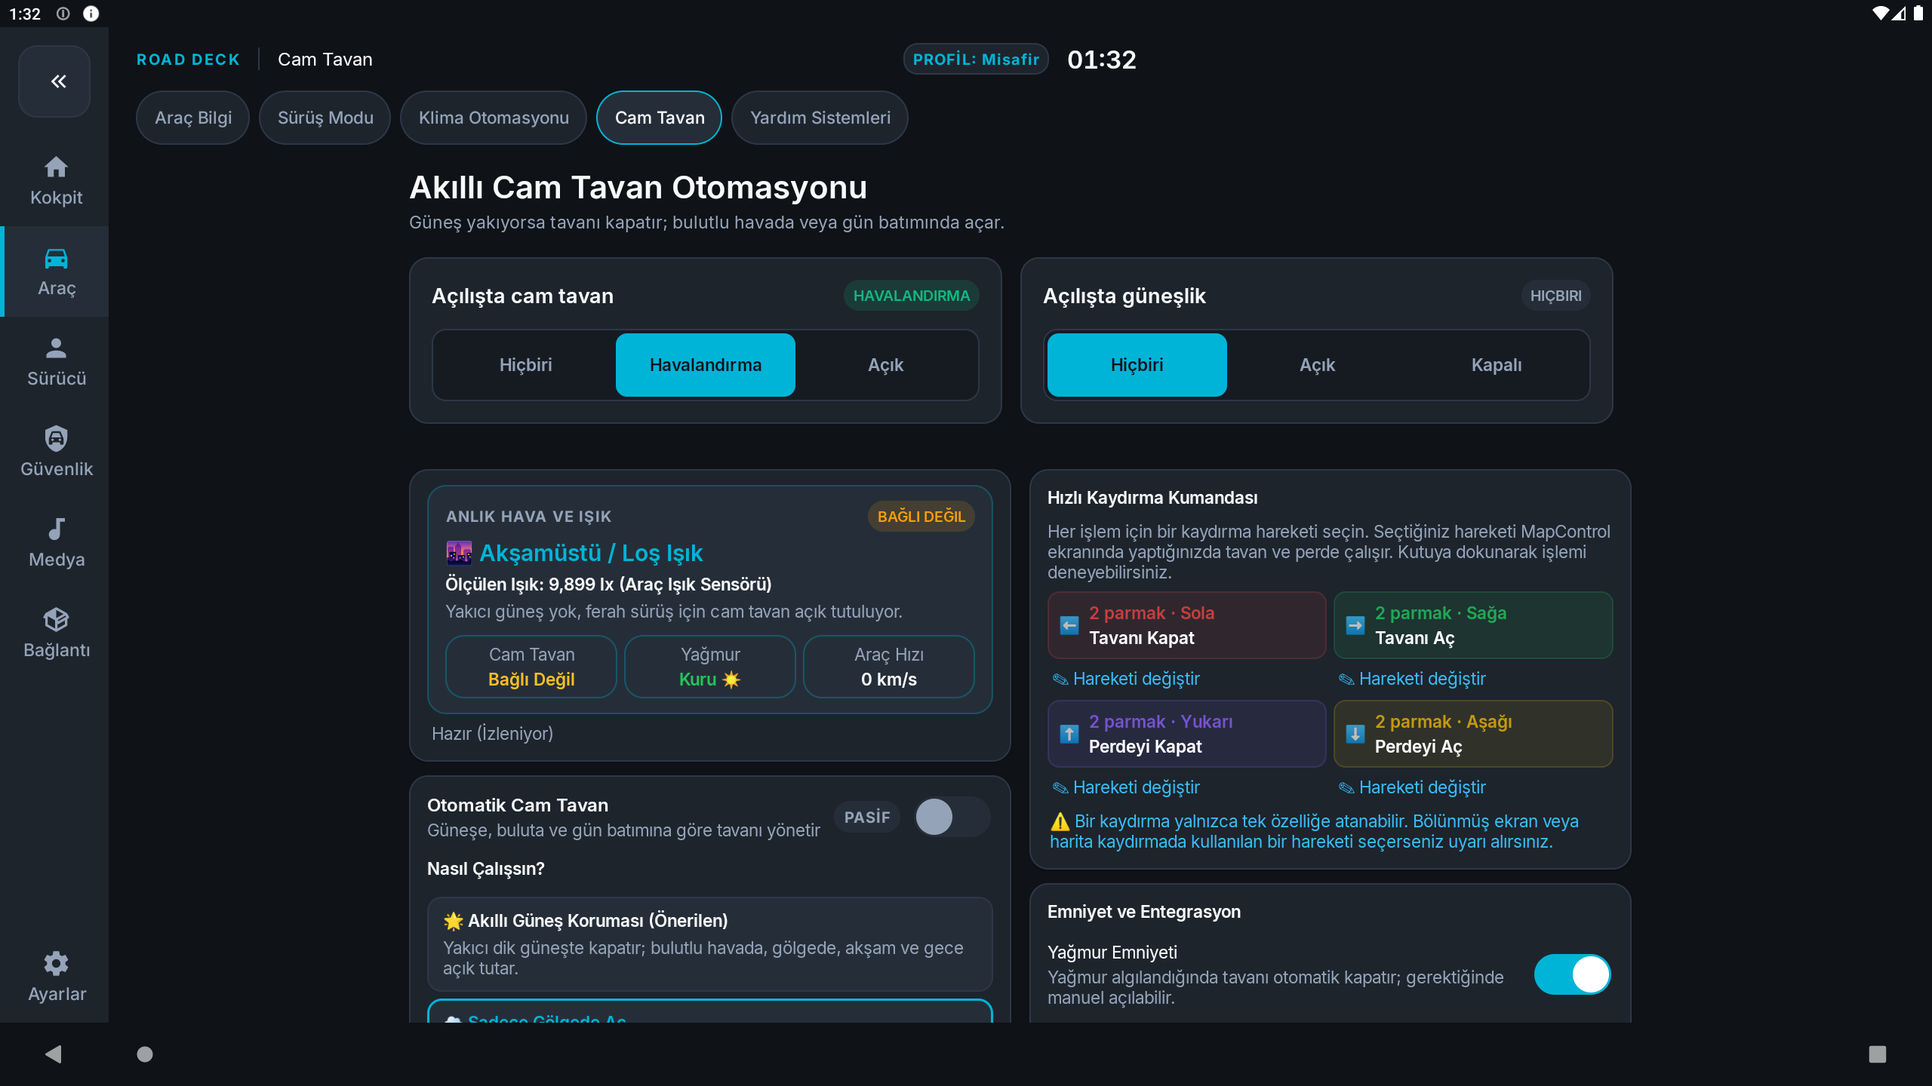
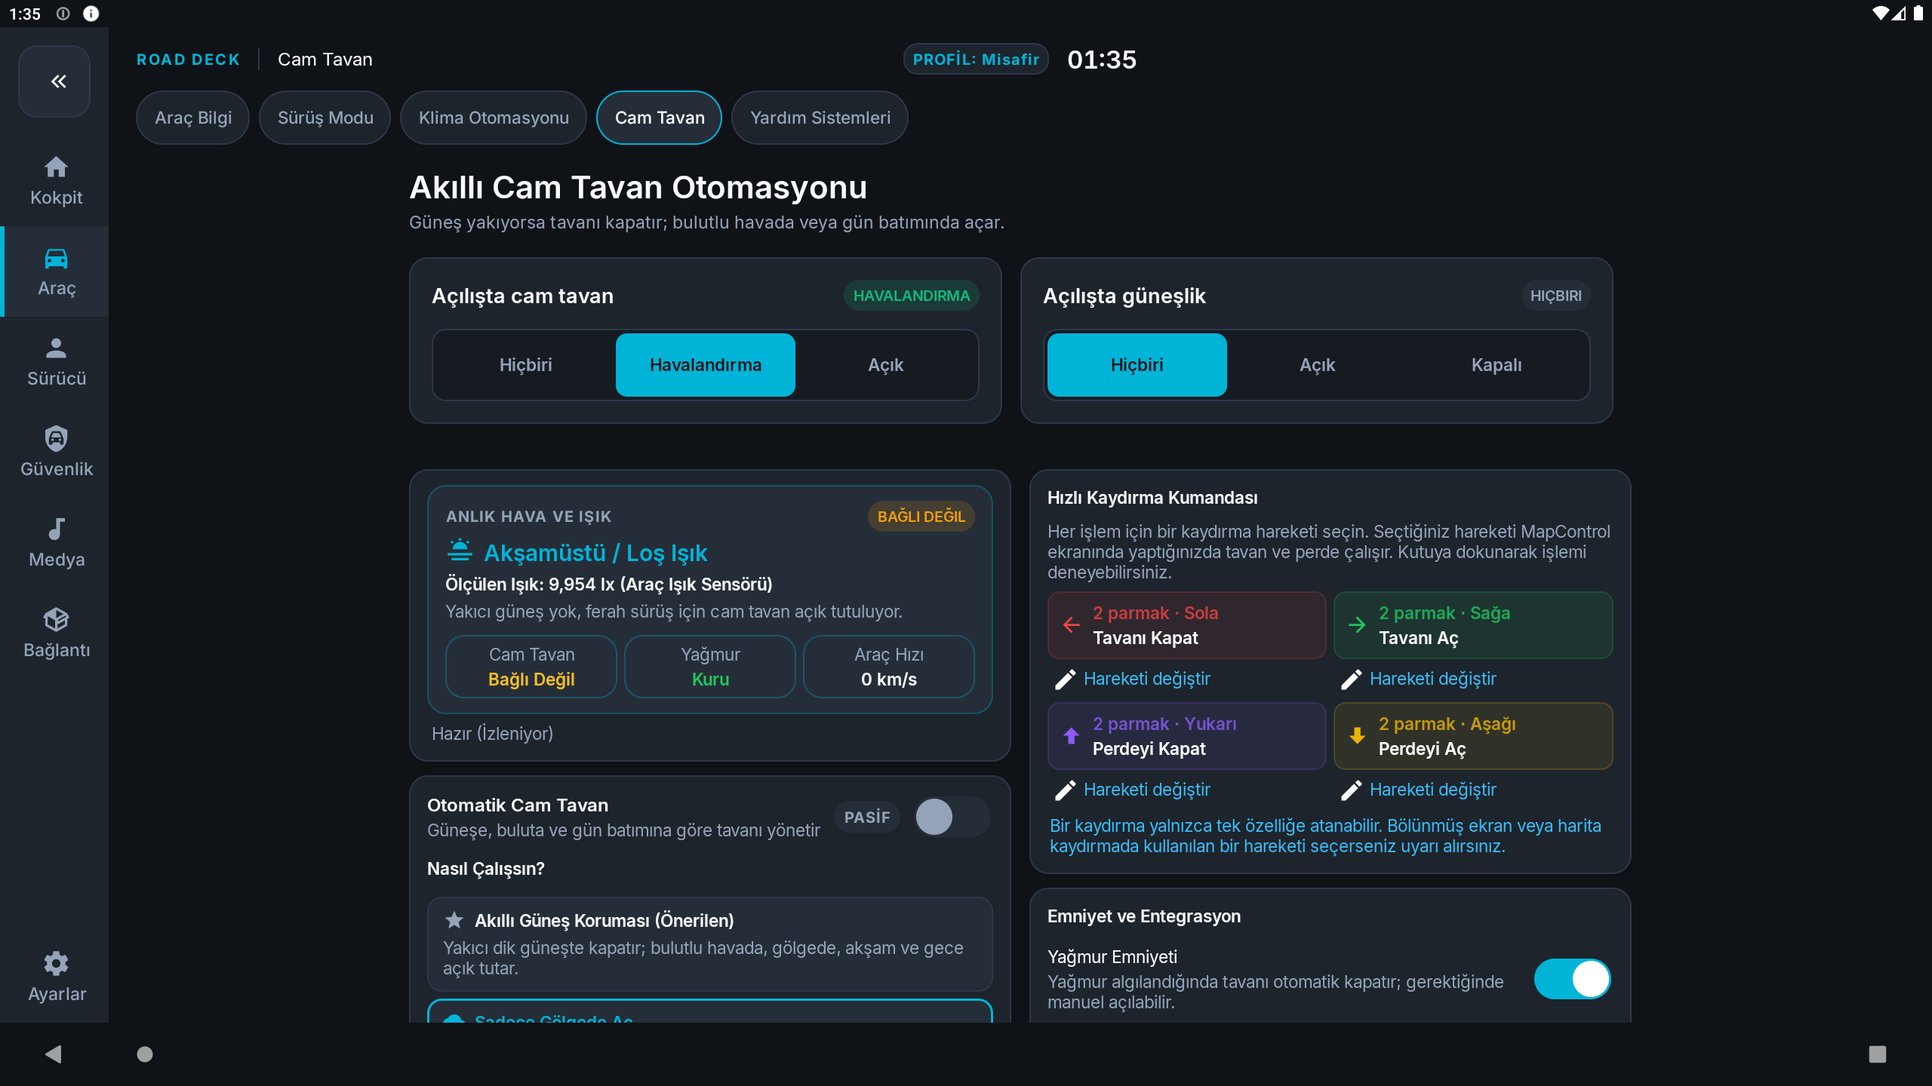
style: cam tavan emojilerini vector ikonlarla degistir
- Hava durumu, mod, hassasiyet ve kaydirma yonleri icin vector ikonlar
- Durum metinlerindeki emojiler kaldirildi
- Emoji yerine yerel drawable ikonlari kullaniliyor

diff --git a/app/src/main/java/com/mapcontrol/ui/builder/SunroofAutomationTabBuilder.java b/app/src/main/java/com/mapcontrol/ui/builder/SunroofAutomationTabBuilder.java
@@ -70,6 +70,7 @@ public final class SunroofAutomationTabBuilder implements SunroofAutomationEngin
 
     // Canlı Gösterge View'ları
     private TextView tvConditionTitle;
+    private ImageView conditionIcon;
     private TextView tvLiveLux;
     private TextView tvConditionAdvice;
     private TextView tvSunroofState;
@@ -281,12 +282,23 @@ public final class SunroofAutomationTabBuilder implements SunroofAutomationEngin
         conditionHeader.addView(liveBadge);
         conditionBox.addView(conditionHeader);
 
+        LinearLayout conditionTitleRow = new LinearLayout(context);
+        conditionTitleRow.setOrientation(LinearLayout.HORIZONTAL);
+        conditionTitleRow.setGravity(Gravity.CENTER_VERTICAL);
+        conditionTitleRow.setPadding(0, dp(3, density), 0, dp(1, density));
+        conditionIcon = new ImageView(context);
+        conditionIcon.setImageResource(R.drawable.ic_ck_sun);
+        conditionIcon.setColorFilter(CockpitTokens.color(context, R.color.ck_accent));
+        conditionTitleRow.addView(conditionIcon, new LinearLayout.LayoutParams(
+                dp(26, density), dp(26, density)));
         tvConditionTitle = new TextView(context);
         tvConditionTitle.setTextSize(20);
         tvConditionTitle.setTypeface(null, Typeface.BOLD);
-        tvConditionTitle.setTextColor(UiStyles.color(context, R.color.oemAccent));
-        tvConditionTitle.setPadding(0, dp(3, density), 0, dp(1, density));
-        conditionBox.addView(tvConditionTitle);
+        tvConditionTitle.setTextColor(CockpitTokens.color(context, R.color.ck_accent));
+        tvConditionTitle.setPadding(dp(8, density), 0, 0, 0);
+        conditionTitleRow.addView(tvConditionTitle, new LinearLayout.LayoutParams(
+                0, LinearLayout.LayoutParams.WRAP_CONTENT, 1f));
+        conditionBox.addView(conditionTitleRow);
 
         // Anlık Ölçülen Lux Değeri
         tvLiveLux = new TextView(context);
@@ -300,6 +312,7 @@ public final class SunroofAutomationTabBuilder implements SunroofAutomationEngin
         SunroofAutomationEngine.Status initStatus = initialEngine.buildStatus();
         if (initStatus != null) {
             tvConditionTitle.setText(initStatus.conditionTitle);
+            updateConditionIcon(initStatus.conditionTitle);
             String src = initStatus.luxSource != null && !initStatus.luxSource.isEmpty() ? " (" + initStatus.luxSource + ")" : "";
             if (initStatus.averageLux > 0 && Math.abs(initStatus.currentLux - initStatus.averageLux) > 2500f) {
                 tvLiveLux.setText(String.format(Locale.getDefault(), "Ölçülen Işık: %,d lx (Ort: %,d lx)%s",
@@ -326,7 +339,7 @@ public final class SunroofAutomationTabBuilder implements SunroofAutomationEngin
         badgesRow.setPadding(0, dp(10, density), 0, 0);
 
         tvSunroofState = createCompactBadge(badgesRow, "Cam Tavan", "Bağlantı bekleniyor", density, false);
-        tvRainState = createCompactBadge(badgesRow, "Yağmur", "Kuru ☀", density, false);
+        tvRainState = createCompactBadge(badgesRow, "Yağmur", "Kuru", density, false);
         tvSpeed = createCompactBadge(badgesRow, "Araç Hızı", "0 km/s", density, true);
         conditionBox.addView(badgesRow);
 
@@ -341,6 +354,26 @@ public final class SunroofAutomationTabBuilder implements SunroofAutomationEngin
         card.addView(tvStatusMessage);
 
         return card;
+    }
+
+    private void updateConditionIcon(String condition) {
+        if (conditionIcon == null) return;
+        int icon;
+        if (condition == null) {
+            icon = R.drawable.ic_ck_sun;
+        } else if (condition.contains("Yağmur")) {
+            icon = R.drawable.ic_ck_rain;
+        } else if (condition.contains("Gece") || condition.contains("Karanlık")) {
+            icon = R.drawable.ic_ck_night;
+        } else if (condition.contains("Akşam")) {
+            icon = R.drawable.ic_ck_sunset;
+        } else if (condition.contains("Bulut")) {
+            icon = R.drawable.ic_ck_sun_cloud;
+        } else {
+            icon = R.drawable.ic_ck_sun;
+        }
+        conditionIcon.setImageResource(icon);
+        conditionIcon.setColorFilter(CockpitTokens.color(context, R.color.ck_accent));
     }
 
     private TextView createCompactBadge(LinearLayout parent, String label, String initialValue, float density, boolean isLast) {
@@ -435,21 +468,21 @@ public final class SunroofAutomationTabBuilder implements SunroofAutomationEngin
         int currentMode = prefs.getInt(SunroofAutomationEngine.KEY_MODE, SunroofAutomationEngine.MODE_SMART_COMFORT);
 
         cardModeSmart = createModeSelectableCard(
-                "🌟 Akıllı Güneş Koruması (Önerilen)",
+                R.drawable.ic_ck_star, "Akıllı Güneş Koruması (Önerilen)",
                 "Yakıcı dik güneşte kapatır; bulutlu havada, gölgede, akşam ve gece açık tutar.",
                 SunroofAutomationEngine.MODE_SMART_COMFORT,
                 currentMode == SunroofAutomationEngine.MODE_SMART_COMFORT,
                 density);
 
         cardModeShadeOnly = createModeSelectableCard(
-                "☁ Sadece Gölgede Aç",
+                R.drawable.ic_ck_cloud, "Sadece Gölgede Aç",
                 "Güneş ışığından çok rahatsız olanlar için; en ufak güneşte kapatır, gölgede açık tutar.",
                 SunroofAutomationEngine.MODE_SHADE_ONLY,
                 currentMode == SunroofAutomationEngine.MODE_SHADE_ONLY,
                 density);
 
         cardModeOpenAir = createModeSelectableCard(
-                "🌤 Açık Hava Keyfi",
+                R.drawable.ic_ck_sun, "Açık Hava Keyfi",
                 "Tavanın sürekli açık kalmasını sevenler için; sadece aşırı yakıcı güneşte kapatır.",
                 SunroofAutomationEngine.MODE_OPEN_AIR,
                 currentMode == SunroofAutomationEngine.MODE_OPEN_AIR,
@@ -469,9 +502,9 @@ public final class SunroofAutomationTabBuilder implements SunroofAutomationEngin
         LinearLayout sensRow = new LinearLayout(context);
         sensRow.setOrientation(LinearLayout.HORIZONTAL);
 
-        btnSensSensitive = createSensitivityButton("🌿 Hassas\n(Erken Kapat)", SunroofAutomationEngine.SENSITIVITY_SENSITIVE, currentSens, density);
-        btnSensBalanced = createSensitivityButton("⚖ Dengeli\n(Tavsiye Edilen)", SunroofAutomationEngine.SENSITIVITY_BALANCED, currentSens, density);
-        btnSensBroad = createSensitivityButton("🕶 Geniş\n(Geç Kapat)", SunroofAutomationEngine.SENSITIVITY_BROAD, currentSens, density);
+        btnSensSensitive = createSensitivityButton(R.drawable.ic_mdi_leaf, "Hassas\n(Erken Kapat)", SunroofAutomationEngine.SENSITIVITY_SENSITIVE, currentSens, density);
+        btnSensBalanced = createSensitivityButton(R.drawable.ic_ck_balance, "Dengeli\n(Tavsiye Edilen)", SunroofAutomationEngine.SENSITIVITY_BALANCED, currentSens, density);
+        btnSensBroad = createSensitivityButton(R.drawable.ic_ck_sunglasses, "Geniş\n(Geç Kapat)", SunroofAutomationEngine.SENSITIVITY_BROAD, currentSens, density);
 
         sensRow.addView(btnSensSensitive, new LinearLayout.LayoutParams(0, LinearLayout.LayoutParams.WRAP_CONTENT, 1f));
         sensRow.addView(btnSensBalanced, createMarginLayoutParams(dp(6, density), 0, LinearLayout.LayoutParams.WRAP_CONTENT, 1f));
@@ -504,7 +537,7 @@ public final class SunroofAutomationTabBuilder implements SunroofAutomationEngin
         populateGestureGrid(density);
 
         TextView tvInfo = new TextView(context);
-        tvInfo.setText("⚠ Bir kaydırma yalnızca tek özelliğe atanabilir. Bölünmüş ekran veya harita kaydırmada kullanılan bir hareketi seçerseniz uyarı alırsınız.");
+        tvInfo.setText("Bir kaydırma yalnızca tek özelliğe atanabilir. Bölünmüş ekran veya harita kaydırmada kullanılan bir hareketi seçerseniz uyarı alırsınız.");
         tvInfo.setTextSize(10);
         tvInfo.setTextColor(0xFF38BDF8);
         tvInfo.setPadding(dp(2, density), dp(6, density), 0, 0);
@@ -549,14 +582,16 @@ public final class SunroofAutomationTabBuilder implements SunroofAutomationEngin
         int code = SunroofGestureStore.getCode(context, action);
         boolean conflicted = code != SunroofGestureStore.GESTURE_OFF
                 && GestureConflicts.findOwnerLabel(context, code, GestureConflicts.slotOf(action)) != 0;
-        View pill = createOptionAPill(gestureArrow(code),
-                conflicted ? gestureLabel(code) + " ⚠" : gestureLabel(code),
+        View pill = createOptionAPill(gestureIcon(code),
+                conflicted ? gestureLabel(code) + " (!)" : gestureLabel(code),
                 actionTitle(action), actionColor(action), density,
                 () -> gestureManager.handleGestureAction(action, "Hızlı Buton"));
         cell.addView(pill);
 
         TextView change = new TextView(context);
-        change.setText("✎ " + context.getString(R.string.sunroof_gesture_change));
+        change.setText(context.getString(R.string.sunroof_gesture_change));
+        change.setCompoundDrawablesRelativeWithIntrinsicBounds(R.drawable.ic_ck_edit, 0, 0, 0);
+        change.setCompoundDrawablePadding(dp(4, density));
         change.setTextSize(11);
         change.setTextColor(0xFF38BDF8);
         change.setClickable(true);
@@ -583,7 +618,7 @@ public final class SunroofAutomationTabBuilder implements SunroofAutomationEngin
             int code = codes.get(i);
             StringBuilder label = new StringBuilder();
             if (code == current) {
-                label.append("✓ ");
+                label.append("• ");
             }
             label.append(code == SunroofGestureStore.GESTURE_OFF
                     ? context.getString(R.string.split_gesture_off)
@@ -591,7 +626,7 @@ public final class SunroofAutomationTabBuilder implements SunroofAutomationEngin
             if (code != SunroofGestureStore.GESTURE_OFF) {
                 int owner = GestureConflicts.findOwnerLabel(context, code, slot);
                 if (owner != 0) {
-                    label.append("  ⚠ ").append(context.getString(
+                    label.append(" (!) ").append(context.getString(
                             R.string.gesture_in_use_by, context.getString(owner)));
                 }
             }
@@ -643,20 +678,20 @@ public final class SunroofAutomationTabBuilder implements SunroofAutomationEngin
         }
     }
 
-    private static String gestureArrow(int code) {
+    private static int gestureIcon(int code) {
         if (!SplitScreenGesture.isValid(code)) {
-            return "🚫";
+            return R.drawable.ic_ck_warning;
         }
         switch (SplitScreenGesture.directionOf(code)) {
             case SplitScreenGesture.LEFT:
-                return "⬅";
+                return R.drawable.ic_ck_arrow_left;
             case SplitScreenGesture.RIGHT:
-                return "➡";
+                return R.drawable.ic_ck_arrow_right;
             case SplitScreenGesture.DOWN:
-                return "⬇";
+                return R.drawable.ic_ck_arrow_down;
             case SplitScreenGesture.UP:
             default:
-                return "⬆";
+                return R.drawable.ic_ck_arrow_up;
         }
     }
 
@@ -688,7 +723,7 @@ public final class SunroofAutomationTabBuilder implements SunroofAutomationEngin
         }
     }
 
-    private View createOptionAPill(String arrow, String subtext, String actionTitle, int color, float density, Runnable action) {
+    private View createOptionAPill(int iconRes, String subtext, String actionTitle, int color, float density, Runnable action) {
         LinearLayout pill = new LinearLayout(context);
         pill.setOrientation(LinearLayout.HORIZONTAL);
         pill.setGravity(Gravity.CENTER_VERTICAL);
@@ -702,11 +737,12 @@ public final class SunroofAutomationTabBuilder implements SunroofAutomationEngin
         bg.setStroke(dp(1, density), 0x33000000 | (color & 0x00FFFFFF));
         pill.setBackground(bg);
 
-        TextView tvArrow = new TextView(context);
-        tvArrow.setText(arrow);
-        tvArrow.setTextSize(15);
-        tvArrow.setPadding(0, 0, dp(8, density), 0);
-        pill.addView(tvArrow);
+        ImageView icon = new ImageView(context);
+        icon.setImageResource(iconRes);
+        icon.setColorFilter(color);
+        LinearLayout.LayoutParams iconLp = new LinearLayout.LayoutParams(dp(22, density), dp(22, density));
+        iconLp.rightMargin = dp(8, density);
+        pill.addView(icon, iconLp);
 
         LinearLayout textCol = new LinearLayout(context);
         textCol.setOrientation(LinearLayout.VERTICAL);
@@ -773,7 +809,7 @@ public final class SunroofAutomationTabBuilder implements SunroofAutomationEngin
         return card;
     }
 
-    private LinearLayout createModeSelectableCard(String title, String desc, int modeId, boolean selected, float density) {
+    private LinearLayout createModeSelectableCard(int iconRes, String title, String desc, int modeId, boolean selected, float density) {
         LinearLayout card = new LinearLayout(context);
         card.setOrientation(LinearLayout.VERTICAL);
         card.setPadding(dp(14, density), dp(10, density), dp(14, density), dp(10, density));
@@ -785,12 +821,25 @@ public final class SunroofAutomationTabBuilder implements SunroofAutomationEngin
         lp.topMargin = dp(6, density);
         card.setLayoutParams(lp);
 
+        LinearLayout titleRow = new LinearLayout(context);
+        titleRow.setOrientation(LinearLayout.HORIZONTAL);
+        titleRow.setGravity(Gravity.CENTER_VERTICAL);
+        ImageView modeIcon = new ImageView(context);
+        modeIcon.setImageResource(iconRes);
+        modeIcon.setColorFilter(selected ? CockpitTokens.color(context, R.color.ck_accent)
+                : CockpitTokens.color(context, R.color.ck_text_medium));
+        LinearLayout.LayoutParams iconLp = new LinearLayout.LayoutParams(
+                dp(20, density), dp(20, density));
+        iconLp.rightMargin = dp(8, density);
+        titleRow.addView(modeIcon, iconLp);
         TextView tvTitle = new TextView(context);
         tvTitle.setText(title);
         tvTitle.setTextSize(14);
         tvTitle.setTypeface(null, Typeface.BOLD);
         tvTitle.setTextColor(selected ? UiStyles.color(context, R.color.oemAccent) : UiStyles.color(context, R.color.textPrimary));
-        card.addView(tvTitle);
+        titleRow.addView(tvTitle, new LinearLayout.LayoutParams(0,
+                LinearLayout.LayoutParams.WRAP_CONTENT, 1f));
+        card.addView(titleRow);
 
         TextView tvDesc = new TextView(context);
         tvDesc.setText(desc);
@@ -833,10 +882,32 @@ public final class SunroofAutomationTabBuilder implements SunroofAutomationEngin
     }
 
     private void updateModeCardTitleColor(LinearLayout card, boolean selected) {
-        if (card != null && card.getChildCount() > 0 && card.getChildAt(0) instanceof TextView) {
-            TextView title = (TextView) card.getChildAt(0);
-            title.setTextColor(selected ? UiStyles.color(context, R.color.oemAccent) : UiStyles.color(context, R.color.textPrimary));
+        TextView title = findTitle(card);
+        if (title != null) {
+            title.setTextColor(selected ? UiStyles.color(context, R.color.oemAccent)
+                    : UiStyles.color(context, R.color.textPrimary));
         }
+        if (card != null && card.getChildCount() > 0 && card.getChildAt(0) instanceof LinearLayout) {
+            View first = ((LinearLayout) card.getChildAt(0)).getChildAt(0);
+            if (first instanceof ImageView) {
+                ((ImageView) first).setColorFilter(selected
+                        ? CockpitTokens.color(context, R.color.ck_accent)
+                        : CockpitTokens.color(context, R.color.ck_text_medium));
+            }
+        }
+    }
+
+    private TextView findTitle(LinearLayout card) {
+        if (card == null) return null;
+        for (int i = 0; i < card.getChildCount(); i++) {
+            View child = card.getChildAt(i);
+            if (child instanceof TextView) return (TextView) child;
+            if (child instanceof LinearLayout) {
+                TextView nested = findTitle((LinearLayout) child);
+                if (nested != null) return nested;
+            }
+        }
+        return null;
     }
 
     @Override
@@ -847,6 +918,7 @@ public final class SunroofAutomationTabBuilder implements SunroofAutomationEngin
             }
             if (tvConditionTitle != null) {
                 tvConditionTitle.setText(status.conditionTitle);
+                updateConditionIcon(status.conditionTitle);
             }
             if (liveBadge != null) {
                 liveBadge.setLevel(status.connected ? StatusBadge.NOMINAL : StatusBadge.ADVISORY);
@@ -876,10 +948,10 @@ public final class SunroofAutomationTabBuilder implements SunroofAutomationEngin
                     tvSunroofState.setText(status.connected ? "Hareketli / Bilinmiyor" : "Bağlı Değil");
                     tvSunroofState.setTextColor(0xFFFBBF24); // Sarı
                 } else if (status.sunroofOpen) {
-                    tvSunroofState.setText("Açık 🪟");
+                    tvSunroofState.setText("Açık");
                     tvSunroofState.setTextColor(0xFF22C55E); // Yeşil
                 } else {
-                    tvSunroofState.setText("Kapalı 🔒");
+                    tvSunroofState.setText("Kapalı");
                     tvSunroofState.setTextColor(0xFF38BDF8); // Cyan
                 }
             }
@@ -887,10 +959,10 @@ public final class SunroofAutomationTabBuilder implements SunroofAutomationEngin
             // Yağmur
             if (tvRainState != null) {
                 if (status.isRaining) {
-                    tvRainState.setText("🌧 Yağmur Algılandı!");
+                    tvRainState.setText("Yağmur algılandı");
                     tvRainState.setTextColor(0xFFEF4444); // Kırmızı
                 } else {
-                    tvRainState.setText("Kuru ☀");
+                    tvRainState.setText("Kuru");
                     tvRainState.setTextColor(0xFF22C55E); // Yeşil
                 }
             }
@@ -965,11 +1037,13 @@ public final class SunroofAutomationTabBuilder implements SunroofAutomationEngin
         return tvVal;
     }
 
-    private Button createSensitivityButton(String label, int sensLevel, int currentSens, float density) {
+    private Button createSensitivityButton(int iconRes, String label, int sensLevel, int currentSens, float density) {
         Button btn = new Button(context);
         btn.setText(label);
         btn.setTextSize(11);
-        btn.setPadding(dp(4, density), dp(8, density), dp(4, density), dp(8, density));
+        btn.setCompoundDrawablesRelativeWithIntrinsicBounds(0, iconRes, 0, 0);
+        btn.setCompoundDrawablePadding(dp(2, density));
+        btn.setPadding(dp(4, density), dp(6, density), dp(4, density), dp(6, density));
         updateSensitivityButtonStyle(btn, sensLevel == currentSens, density);
 
         btn.setOnClickListener(v -> {

diff --git a/app/src/main/java/com/mapcontrol/vehicle/SunroofAutomationEngine.java b/app/src/main/java/com/mapcontrol/vehicle/SunroofAutomationEngine.java
@@ -601,27 +601,27 @@ public final class SunroofAutomationEngine implements VehicleLightSensorManager.
         String conditionAdvice;
 
         if (isRaining) {
-            conditionTitle = "🌧 Yağmur Algılandı";
+            conditionTitle = "Yağmur Algılandı";
             conditionAdvice = "Islanmayı önlemek için cam tavan güvenlik amacıyla kilitli tutuluyor.";
         } else if (lux < 0) {
             conditionTitle = "Sensör Bekleniyor...";
             conditionAdvice = "Araç ortam ışık sensöründen veri okunuyor.";
         } else if (lux >= getSunThreshold(sensitivity)) {
-            conditionTitle = "☀🔥 Yakıcı / Dik Güneş";
+            conditionTitle = "Yakıcı / Dik Güneş";
             conditionAdvice = "Kabin ısınmasını ve güneşi engellemek için cam tavan kapalı tutuluyor.";
         } else if (lux <= getNightThreshold(sensitivity)) {
             if (closeAtNight) {
-                conditionTitle = "🌙 Gece / Karanlık";
+                conditionTitle = "Gece / Karanlık";
                 conditionAdvice = "Hava karanlık olduğu için cam tavan kapalı tutuluyor.";
             } else {
-                conditionTitle = "🌙 Akşam / Gece";
+                conditionTitle = "Akşam / Gece";
                 conditionAdvice = "Yakıcı güneş yok, ferah sürüş için cam tavan açık tutuluyor.";
             }
         } else if (lux <= 10500f) {
-            conditionTitle = "🌆 Akşamüstü / Loş Işık";
+            conditionTitle = "Akşamüstü / Loş Işık";
             conditionAdvice = "Yakıcı güneş yok, ferah sürüş için cam tavan açık tutuluyor.";
         } else {
-            conditionTitle = "⛅ Tatlı Gün Işığı / Bulutlu";
+            conditionTitle = "Tatlı Gün Işığı / Bulutlu";
             conditionAdvice = "Işık rahatsız etmiyor, ferah sürüş için cam tavan açık tutuluyor.";
         }
 
